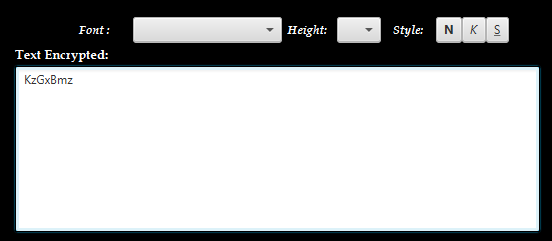
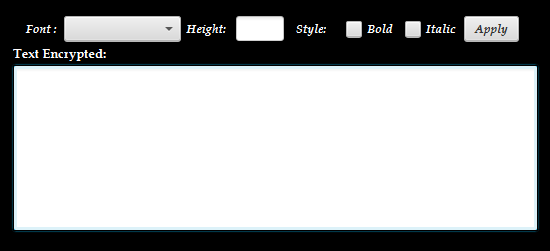
New methods for the show file screen. Bug fixes.

Changed region(s): [[0.0, 0.1743, 0.9891, 0.9876], [0.0309, 0.0581, 0.9582, 0.2033]]

diff --git a/src/ui/CrypterGUI.java b/src/ui/CrypterGUI.java
@@ -717,11 +717,8 @@ public class CrypterGUI {
 		}
 	}
 
-<<<<<<< HEAD
 	////////////////////////////////////////////////////////SHOW_STAGE METHODS////////////////////////////////////////////////////////
 
-=======
->>>>>>> 58b2dd942b3f94588b52cc4a564514a4eb6d9ac5
 	private void decryptByConsoleVigenere() throws IOException {
 		try {
 			String encriptionKey = wordKeyVigenere_AES.getText();
@@ -772,26 +769,51 @@ public class CrypterGUI {
 	}
 	
 	// SHOW_STAGE METHODS
-<<<<<<< HEAD
-	
-=======
 
-	@FXML
-	void cursiveOption(ActionEvent event) {
-	}
-
->>>>>>> 58b2dd942b3f94588b52cc4a564514a4eb6d9ac5
 	@FXML
     void setChangesText(ActionEvent event) {
-		
+		if(bold.isSelected() && italic.isSelected()) {
+			textFromText.setFont(Font.font (textFromText.getFont().getFamily(), FontWeight.BOLD, FontPosture.ITALIC,textFromText.getFont().getSize())); 
+		}else if(bold.isSelected()){
+			textFromText.setFont(Font.font (textFromText.getFont().getFamily(), FontWeight.BOLD, textFromText.getFont().getSize()));
+		}else if (italic.isSelected()){
+			textFromText.setFont(Font.font(textFromText.getFont().getFamily(), FontPosture.ITALIC, textFromText.getFont().getSize())); 
+		}
+		changeFont();
+		changeHeight();
     }
+	
+	public void changeHeight(){
+		try {
+			int number =Integer.parseInt(height.getText());
+		    textFromText.setFont(Font.font(number)); 
+		    }catch(NumberFormatException a) {
+		    	Alert alert= new Alert(AlertType.ERROR);
+		    	alert.setContentText("You must write a number");
+		    	alert.setTitle("ERROR");
+		    	alert.show();
+		    }
+		}
     
     void initializeChoiceBox() {
     	fontChoice.setItems(FXCollections.observableArrayList("Comic Sans MS","New Times Roman","Arial","Calibri","Century Gothic"));
     }
 
     void changeFont() {
-    
+    	
+    	String[] options= {"Comic Sans MS","New Times Roman","Arial","Calibri","Century Gothic"};
+    	
+    	if(fontChoice.getSelectionModel().getSelectedIndex()==0) {
+    		textFromText.setFont(Font.font(options[0])); 
+    	}else if (fontChoice.getSelectionModel().getSelectedIndex()==1) {
+    		textFromText.setFont(Font.font(options[1]));
+    	}else if(fontChoice.getSelectionModel().getSelectedIndex()==2) {
+    		textFromText.setFont(Font.font(options[2]));
+    	}else if(fontChoice.getSelectionModel().getSelectedIndex()==3) {
+    		textFromText.setFont(Font.font(options[3]));
+    	}else {
+    		textFromText.setFont(Font.font(options[4]));
+    	}
     }
 
[1 lines of base64/hex data omitted]
